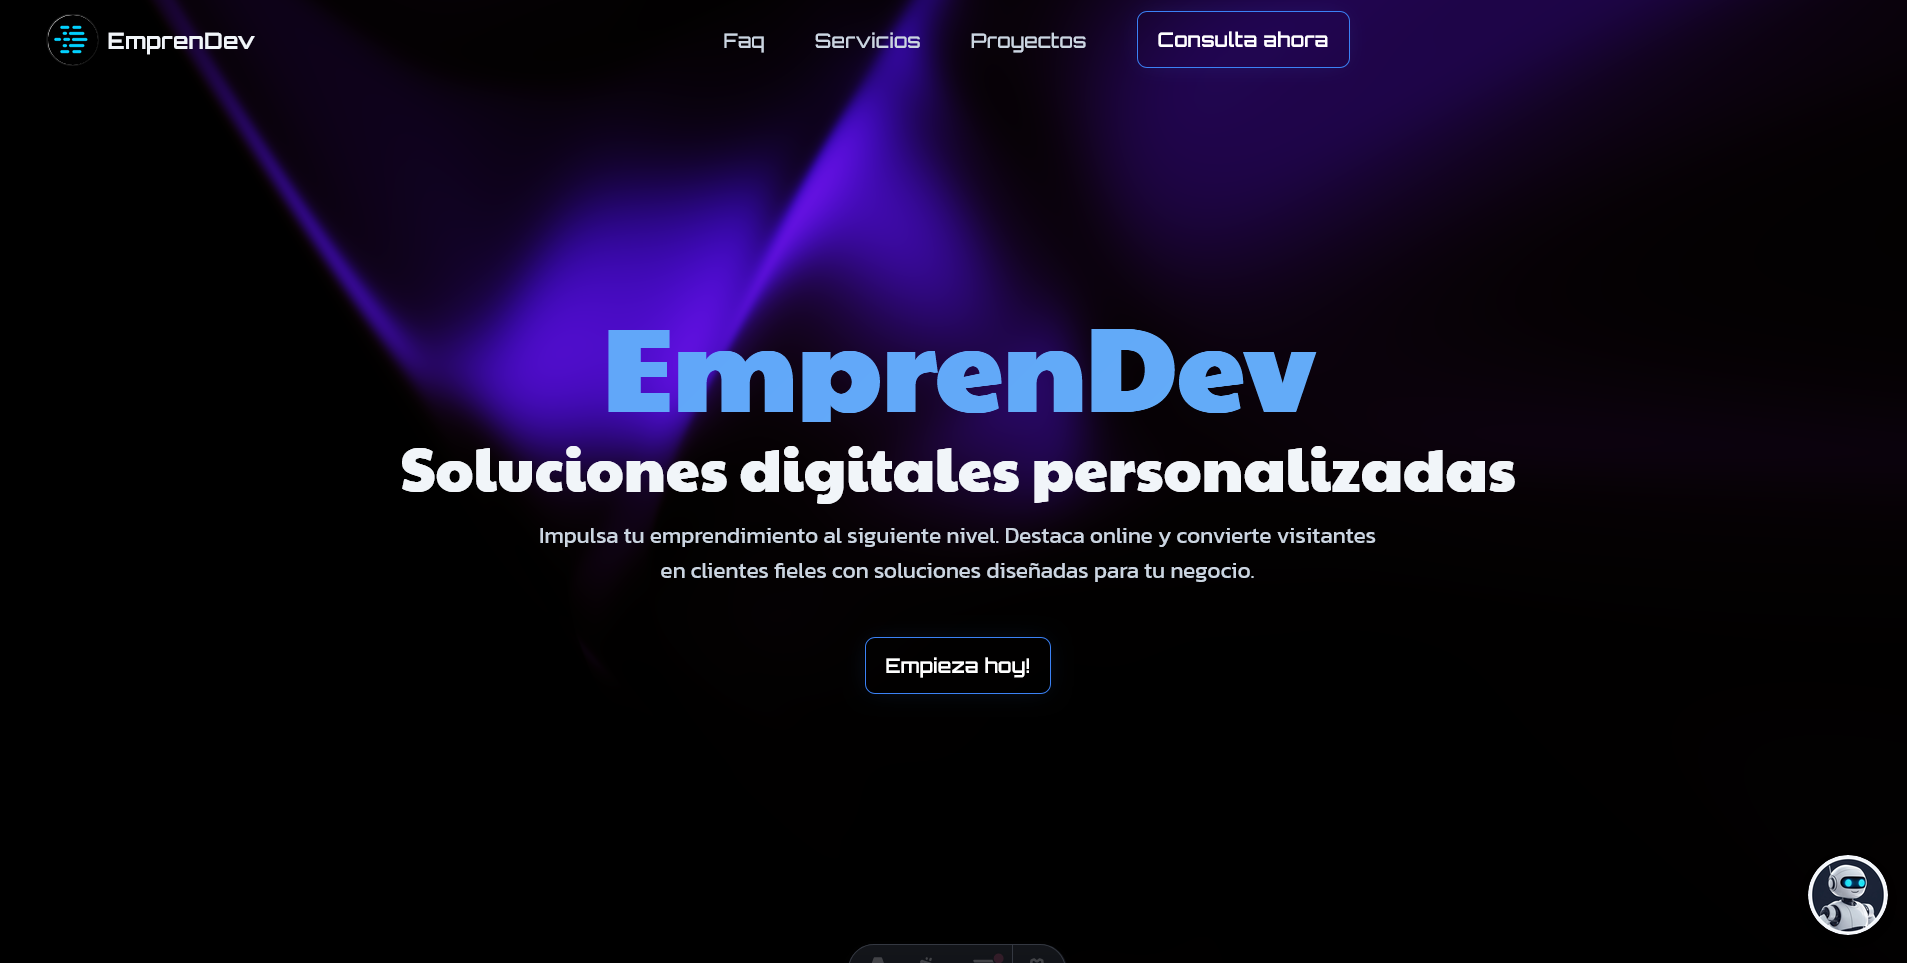
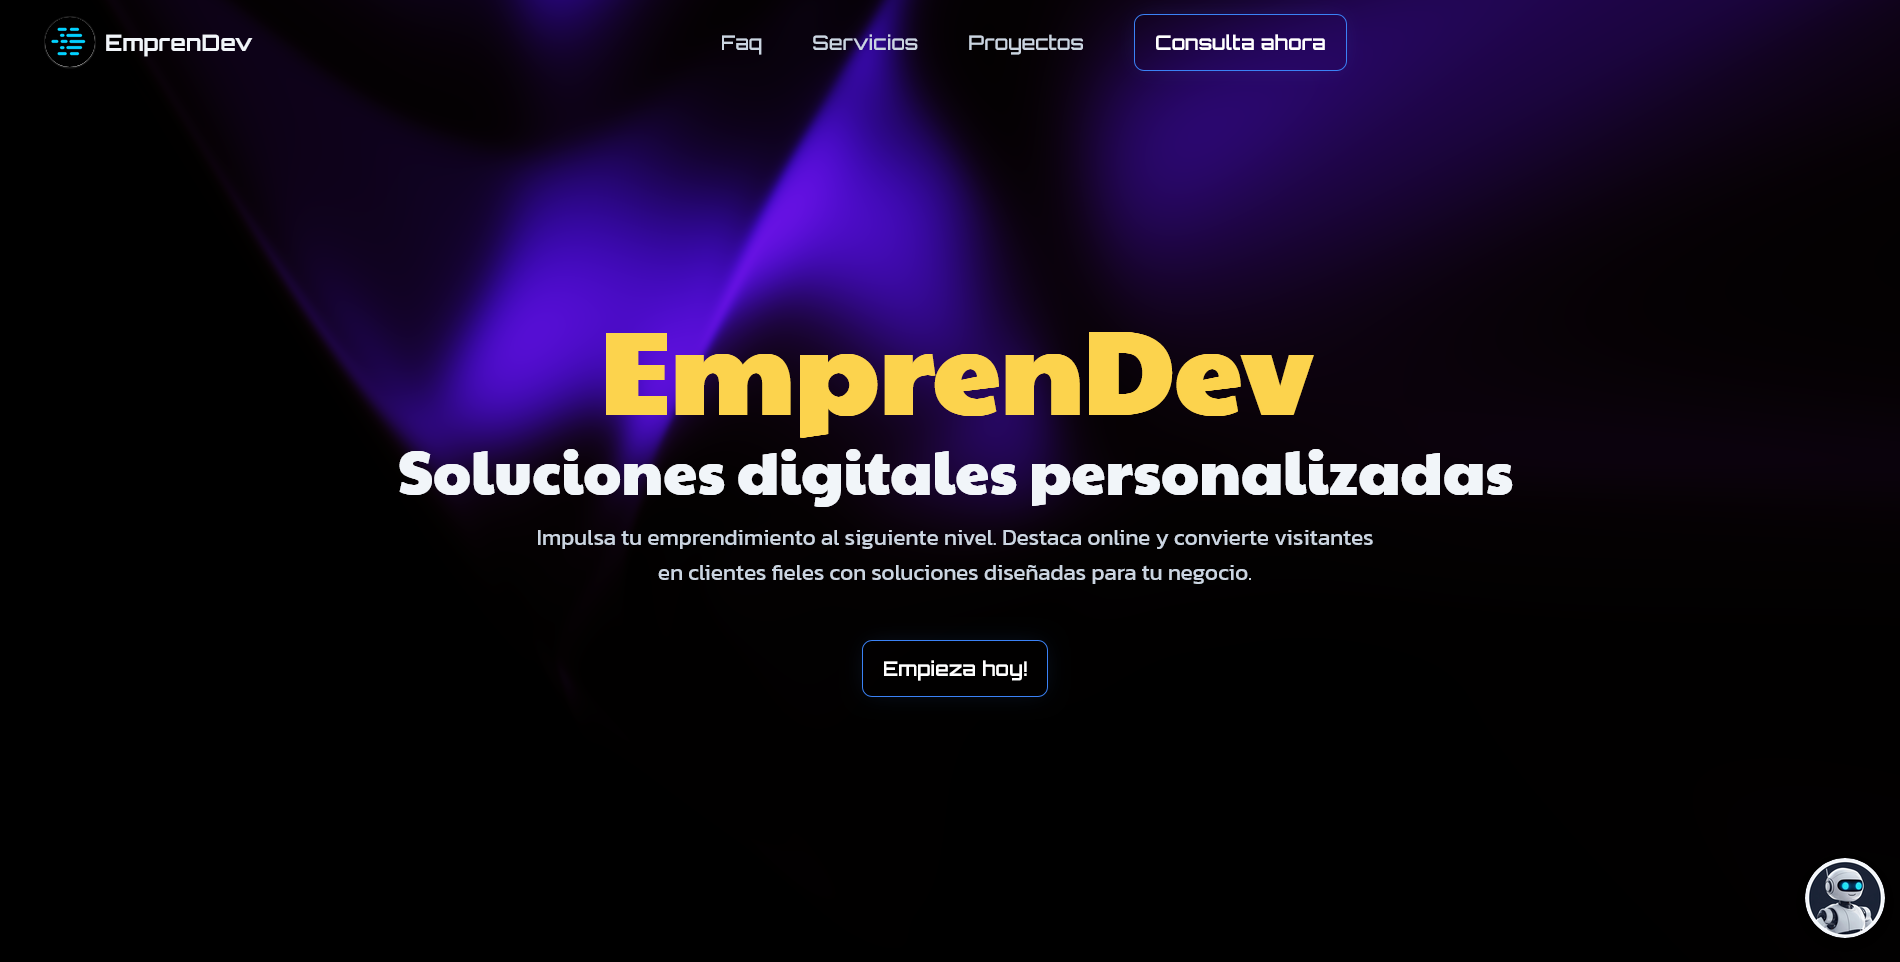
feat: updated projects

diff --git a/src/components/ui/ProjectsGrid.jsx b/src/components/ui/ProjectsGrid.jsx
@@ -8,16 +8,16 @@ const PROJECTS = [
   {
     title: "Emprendev",
     description:
-      "Landing page - modo oscuro. Incluye chatbot de IA para soporte al cliente.",
+      "Landing page. Incluye chatbot de IA para soporte al cliente (Botpress). Formulario de contacto.",
     img: "/emprendev.png",
-    tech: ["Astro", "Tailwind", "React"],
+    tech: ["Astro", "Tailwind", "React Bits"],
     url: "https://empren.dev",
   },
   {
     title: "Diablitas Bags",
     description:
       "Sitio web tipo e-commerce. Buscador de productos - botón de WhatsApp - SEO optimizado.",
-    img: "/diablitas-page.jpeg",
+    img: "/diablitas.png",
     tech: ["Next", "Vercel", "Tailwind"],
     url: "https://diablitas.empren.dev/",
   },
@@ -26,7 +26,7 @@ const PROJECTS = [
     description:
       "Sitio web para pronósticos del Mundial 2026. Autenticación de usuarios y panel administrador.",
     img: "/mundial.png",
-    tech: ["Next", "Tailwind", "Vercel"],
+    tech: ["Next", "Tailwind", "MongoDB"],
     url: "https://equo-mundial2026.empren.dev/",
   },
   {

diff --git a/src/components/sections/Hero.jsx b/src/components/sections/Hero.jsx
@@ -46,7 +46,7 @@ const Hero = () => {
             tileRadius={8}
             gap={6}
             fontSize={48}
-            fontSizeMobile={30}
+            fontSizeMobile={25}
             loop={false}
             padTo={8}
           />
